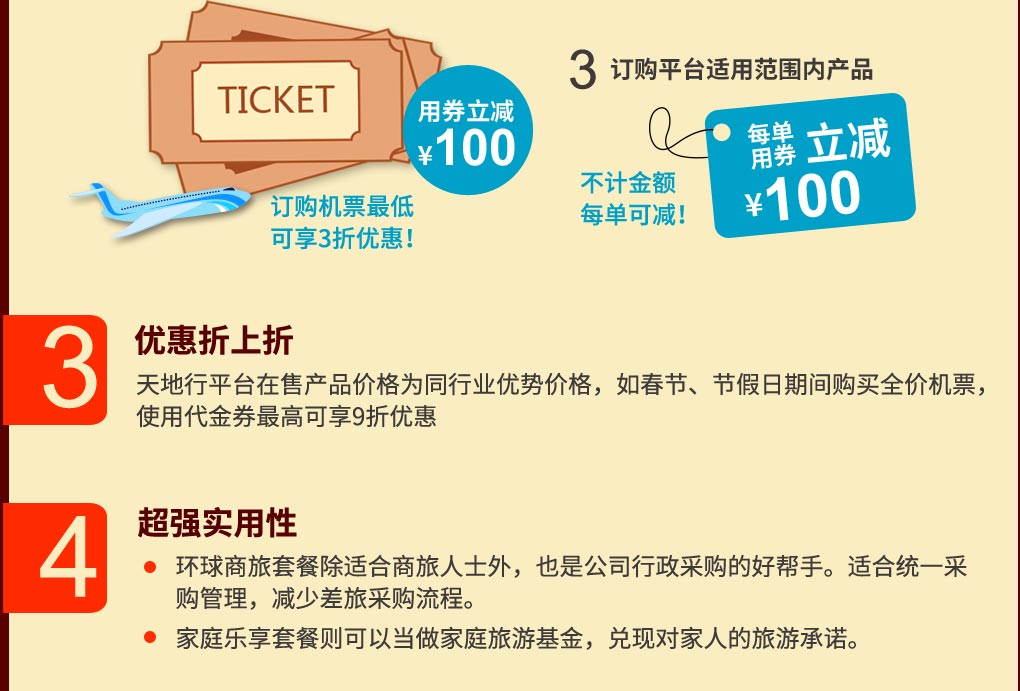
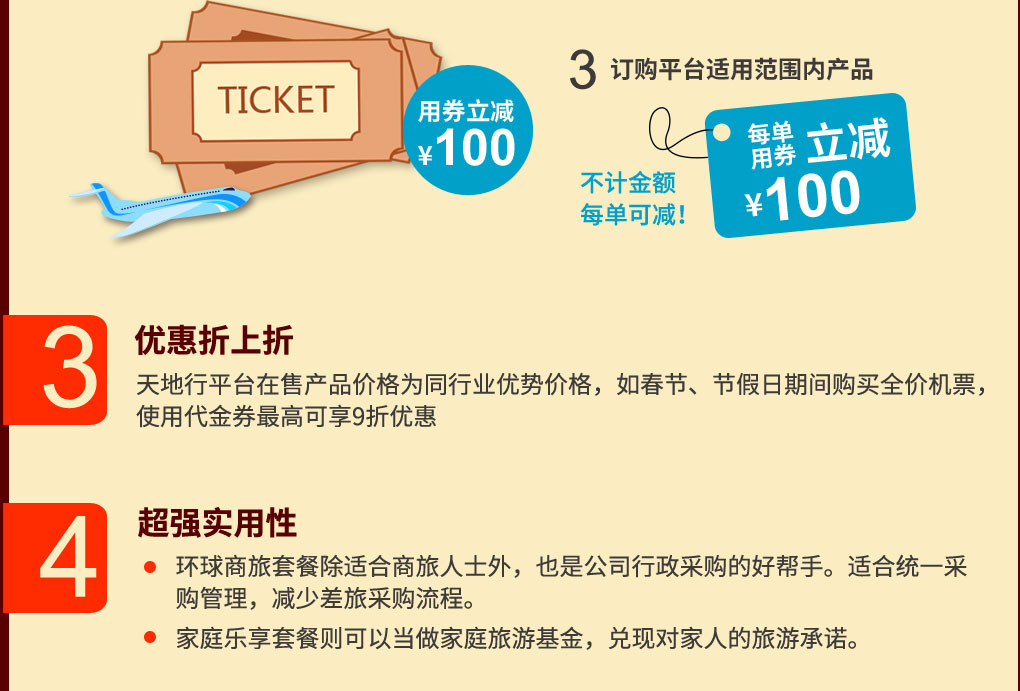
修改双十二专题页

diff --git a/static/special/css/store_publicity.css b/static/special/css/store_publicity.css
@@ -1459,7 +1459,7 @@ footer.tiny-footer{ color:#969696;  background-color:#EAEAEA; border-top:1px sol
 }
 .shuang12_2015_block02 {
     background: url(../images/shuang12_2015_02.jpg) 50% 0 no-repeat;
-    height: 774px;
+    height: 607px;
 }
 .shuang12_2015_block03 {
     background: url(../images/shuang12_2015_03.jpg) 50% 0 no-repeat;
